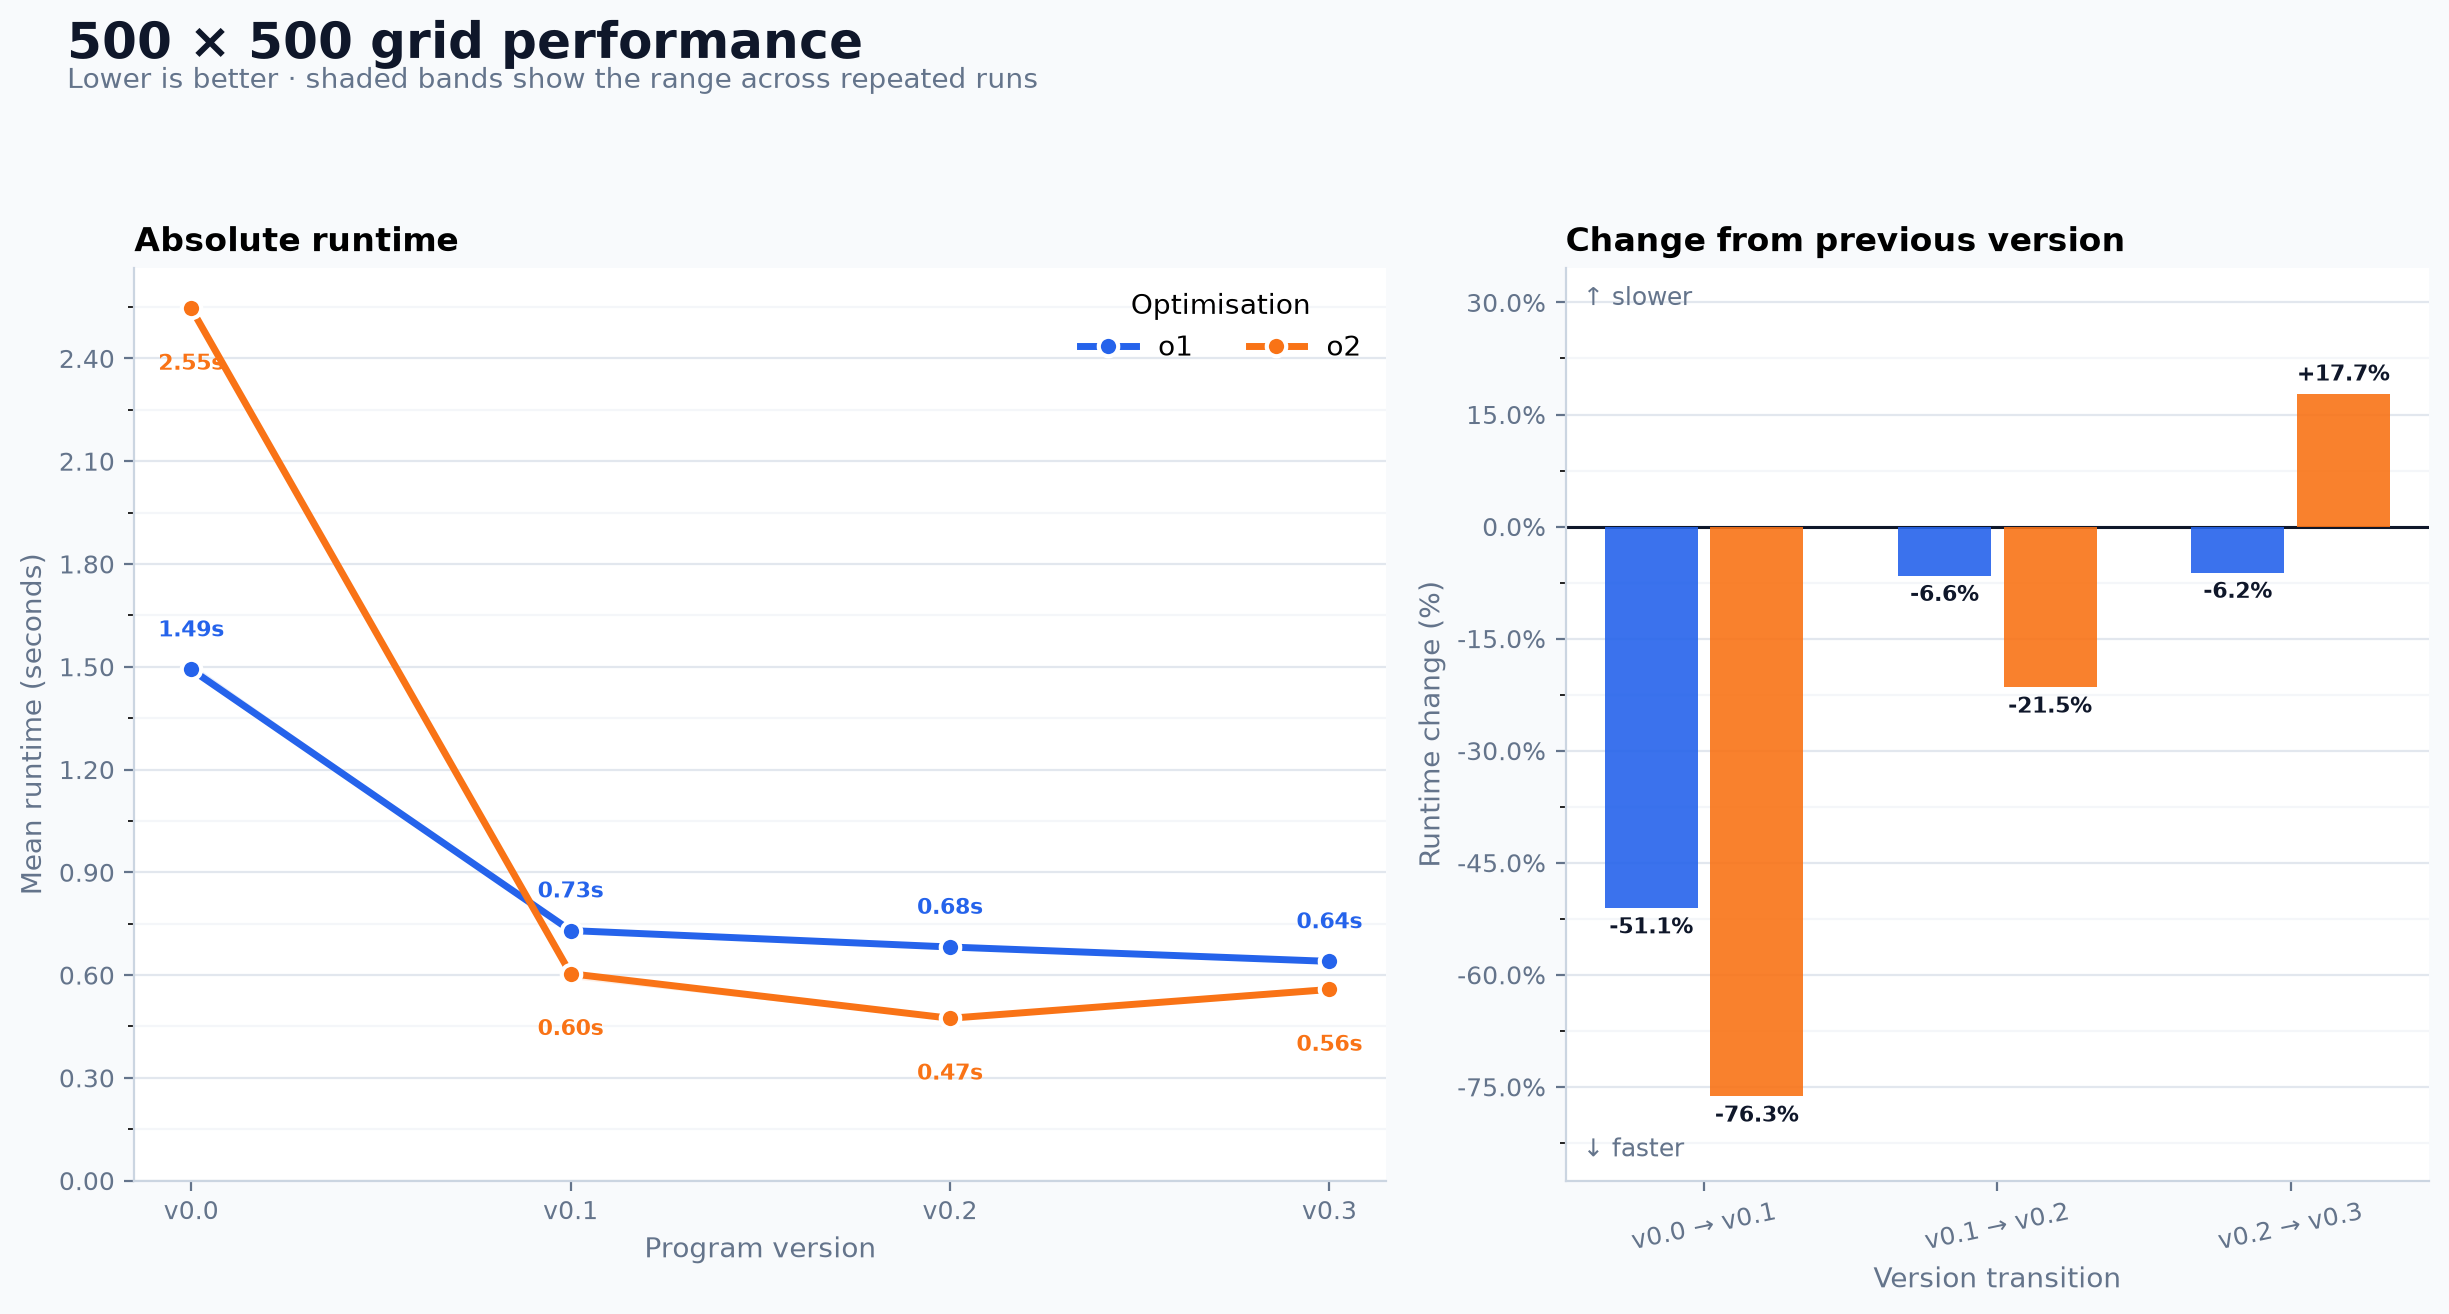
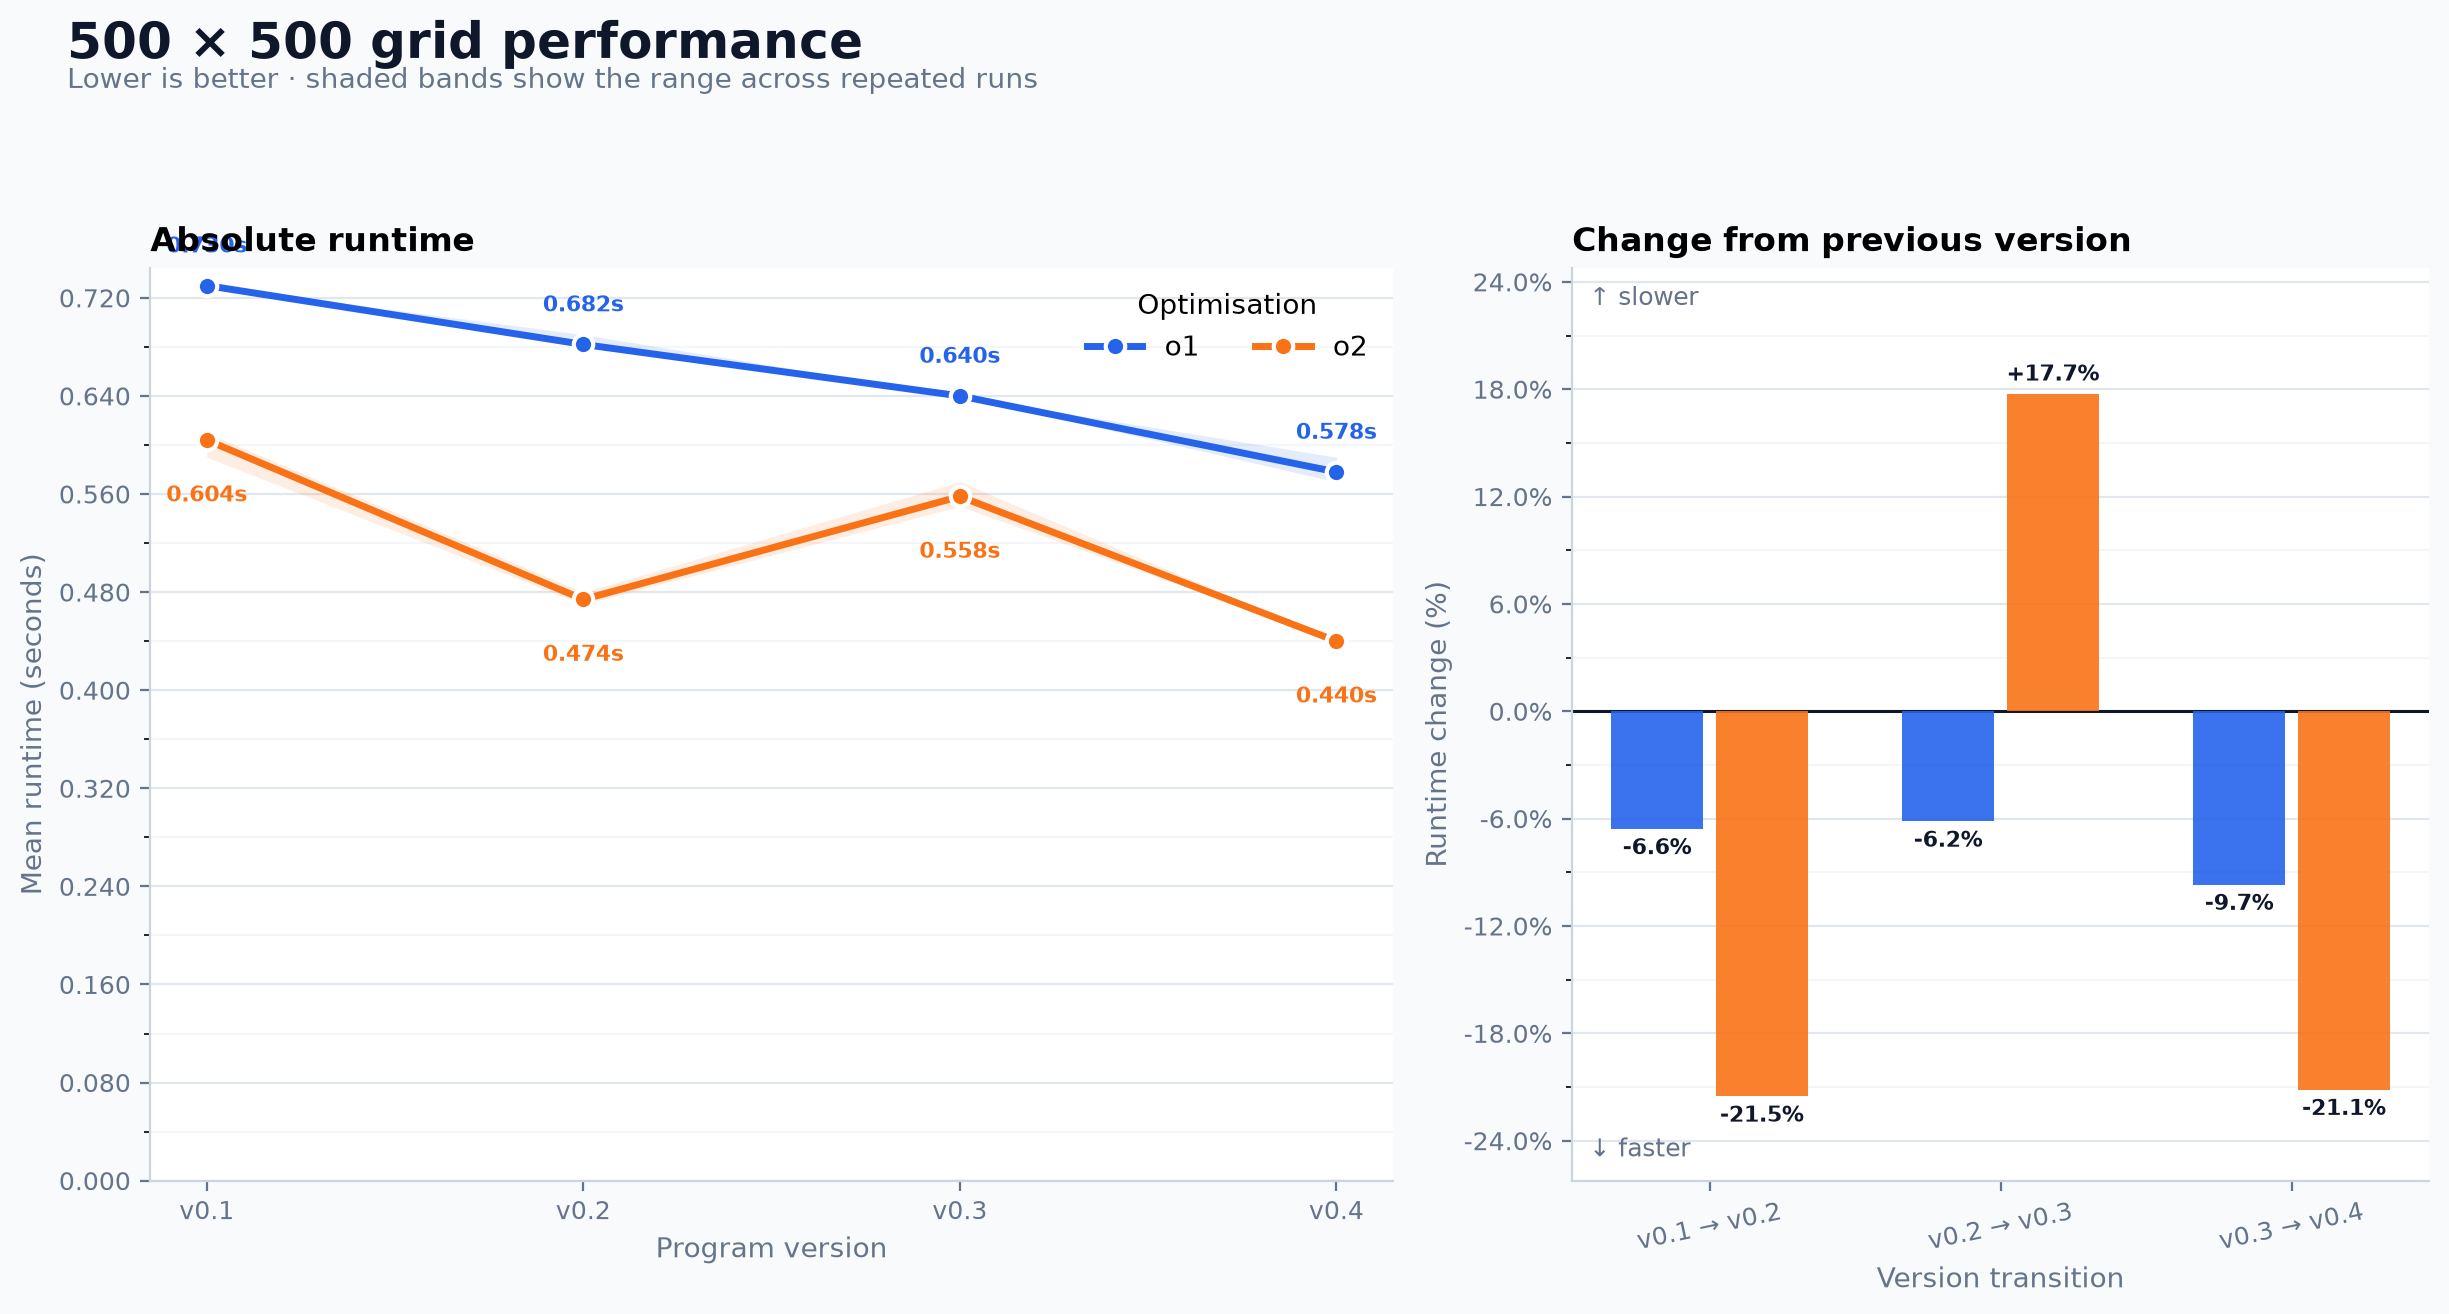
add devlog entry for v0.4

diff --git a/notes/devlog.md b/notes/devlog.md
@@ -108,26 +108,26 @@ Therefore, this change:
 
 The mean user times from the Slurm benchmarks were:
 
-| Grid | Build | Mean user time | Change from v0.2 |
-| ---: | --- | ---: | ---: |
-| 500² | v0.2 `-O1` | 0.666 s | baseline |
-| 500² | v0.3 `-O1` | 0.630 s | 5.4% faster |
-| 500² | v0.2 `-O2` | 0.460 s | baseline |
-| 500² | v0.3 `-O2` | 0.542 s | 17.8% slower |
-| 1000² | v0.2 `-O1` | 2.688 s | baseline |
-| 1000² | v0.3 `-O1` | 2.518 s | 6.3% faster |
-| 1000² | v0.2 `-O2` | 1.860 s | baseline |
-| 1000² | v0.3 `-O2` | 2.178 s | 17.1% slower |
+|  Grid | Build      | Mean user time | Change from v0.2 |
+| ----: | ---------- | -------------: | ---------------: |
+|  500² | v0.2 `-O1` |        0.666 s |         baseline |
+|  500² | v0.3 `-O1` |        0.630 s |      5.4% faster |
+|  500² | v0.2 `-O2` |        0.460 s |         baseline |
+|  500² | v0.3 `-O2` |        0.542 s |     17.8% slower |
+| 1000² | v0.2 `-O1` |        2.688 s |         baseline |
+| 1000² | v0.3 `-O1` |        2.518 s |      6.3% faster |
+| 1000² | v0.2 `-O2` |        1.860 s |         baseline |
+| 1000² | v0.3 `-O2` |        2.178 s |     17.1% slower |
 
 Cachegrind branch simulation for the 1000² grid, 500 timesteps, `p=0.02`
 and `f=0.01` gave:
 
-| Metric | v0.2 `-O2` | v0.3 `-O2` | Change |
-| --- | ---: | ---: | ---: |
-| Instruction references | 15,306,357,873 | 16,221,531,044 | +6.0% |
-| Branches | 1,872,193,132 | 2,359,083,727 | +26.0% |
-| Mispredictions | 159,425,716 | 168,173,217 | +5.5% |
-| Misprediction rate | 8.5% | 7.1% | -1.4 percentage points |
+| Metric                 |     v0.2 `-O2` |     v0.3 `-O2` |                 Change |
+| ---------------------- | -------------: | -------------: | ---------------------: |
+| Instruction references | 15,306,357,873 | 16,221,531,044 |                  +6.0% |
+| Branches               |  1,872,193,132 |  2,359,083,727 |                 +26.0% |
+| Mispredictions         |    159,425,716 |    168,173,217 |                  +5.5% |
+| Misprediction rate     |           8.5% |           7.1% | -1.4 percentage points |
 
 The lower misprediction rate in v0.3 is misleading because it executes many
 more branches: there are 486,890,595 additional branches and 8,747,501
@@ -155,10 +155,26 @@ more direct optimisations rather than investigating this compiler interaction
 further. Full results and methodology are in
 [`data/v0.3/branch-predition.md`](../data/v0.3/branch-predition.md).
 
-
 # v0.4
-Since the previous change resulted in a perf deg. 0.4 will roll this back. Along with that. Also i'll do an  integer threshold compare instead of float. 
 
+Since the previous change resulted in a perf deg. 0.4 will roll this back. Along with that. Also i'll do an integer threshold compare instead of float.
+The change has been rolled back and performance has been restored to #v0.2 levels.
+Next I'm going to work port the rng to output an int32 instead of a float32. basically precompute `p_threshold`/`f_threshold`, compare against `nextUInt32()` directly. I believe this will save me time because nextfloat function internally calls nextint32 anyways. So I can just save on that.
+
+The latest v0.4 benchmark used 500 timesteps, two warm-up runs, and five timed repetitions for each grid size. The 100² runs are too short to be meaningful: both builds complete in about 0.02 seconds, so timer and system noise dominate. The utility doesn't provide enough resolution for a sample size this small.
+
+For the larger grids, the mean user times were:
+
+|  Grid | v0.2 `-O1` | v0.4 `-O1` |       Change | v0.2 `-O2` | v0.4 `-O2` |      Change |
+| ----: | ---------: | ---------: | -----------: | ---------: | ---------: | ----------: |
+|  500² |    0.666 s |    0.560 s | 15.9% faster |    0.460 s |    0.426 s | 7.4% faster |
+| 1000² |    2.688 s |    2.248 s | 16.4% faster |    1.860 s |    1.710 s | 8.1% faster |
+
+The v0.4 `-O2` build is still about 24% faster than its `-O1` build at both
+larger grid sizes. The improvement over v0.2 is consistent with the two v0.4
+changes: rolling back the conditional-RNG change restores the simpler hot loop,
+and comparing `nextUInt()` directly against precomputed integer thresholds
+avoids the float construction and conversion work in `nextFloat()`.
 
 # v0.5
 
